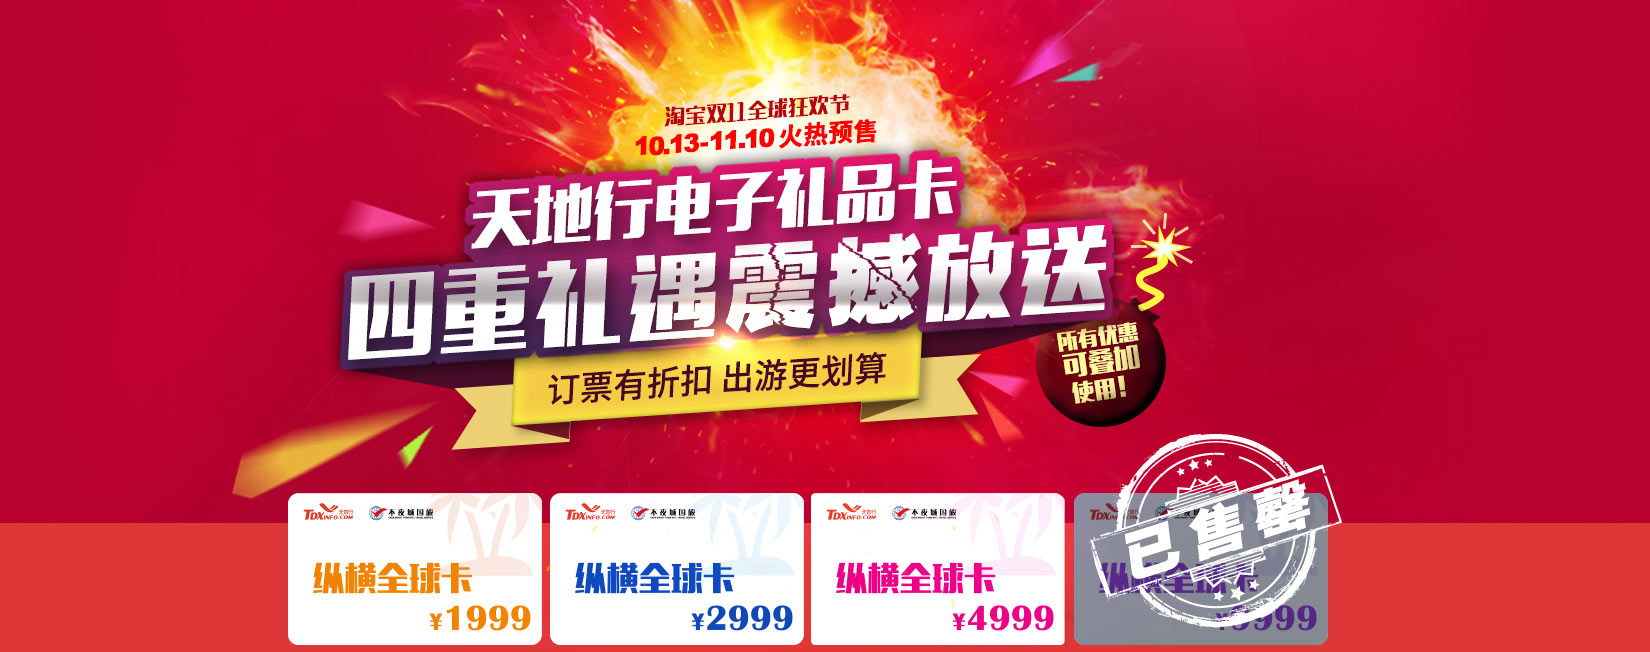
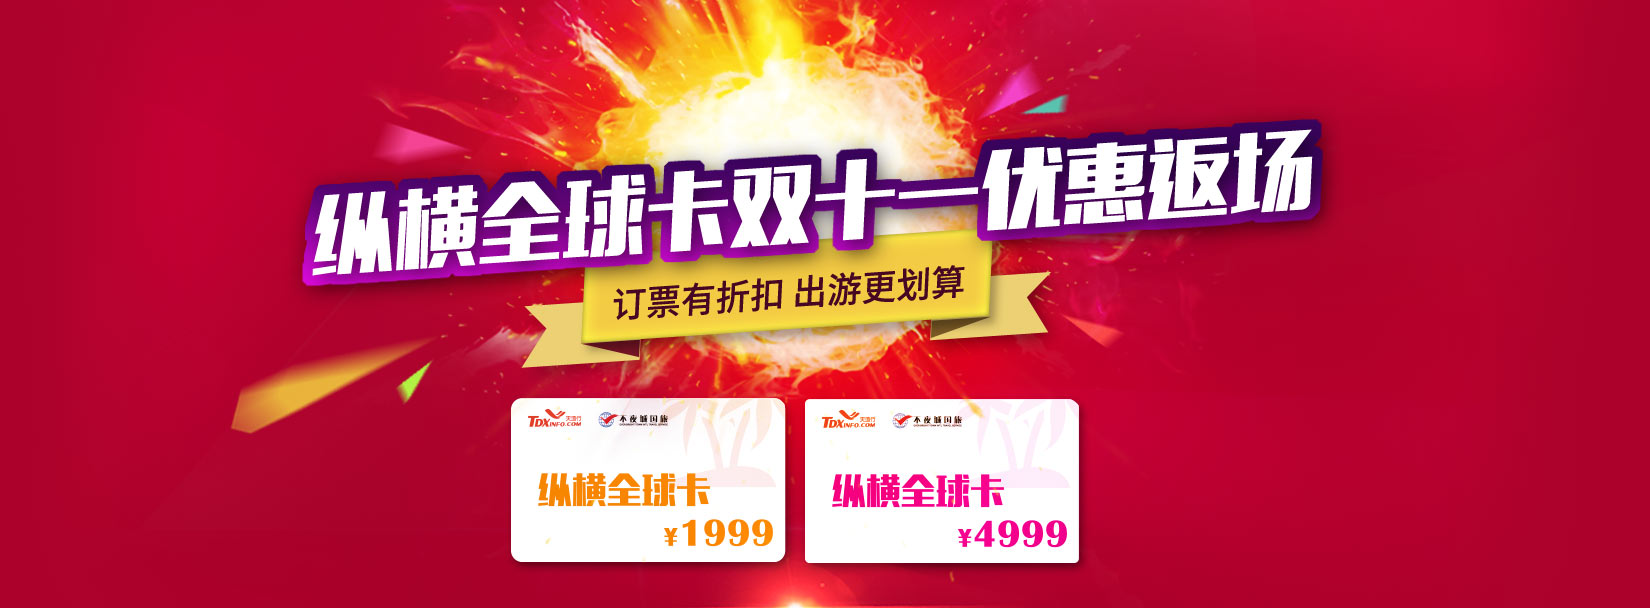
专题页修改

diff --git a/static/special/css/store_publicity.css b/static/special/css/store_publicity.css
@@ -1401,11 +1401,11 @@ footer.tiny-footer{ color:#969696;  background-color:#EAEAEA; border-top:1px sol
 /*  双11  */
 .banner_shuang11{
     background: url(../images/shuang11Banner.jpg) 50% 0  no-repeat;
-    height:652px;
+    height:608px;
 }
 .shuang11_block01 {
     background: url(../images/shuang11_01.jpg) 50% 0  no-repeat;
-    height:1528px;
+    height:1506px;
 }
 .shuang11_block02 {
     background: url(../images/shuang11_02.jpg) 50% 0  no-repeat;
